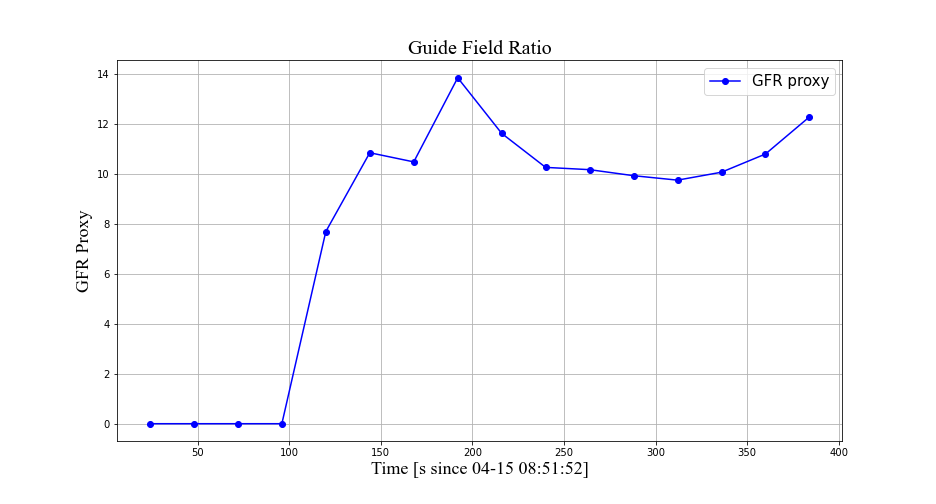
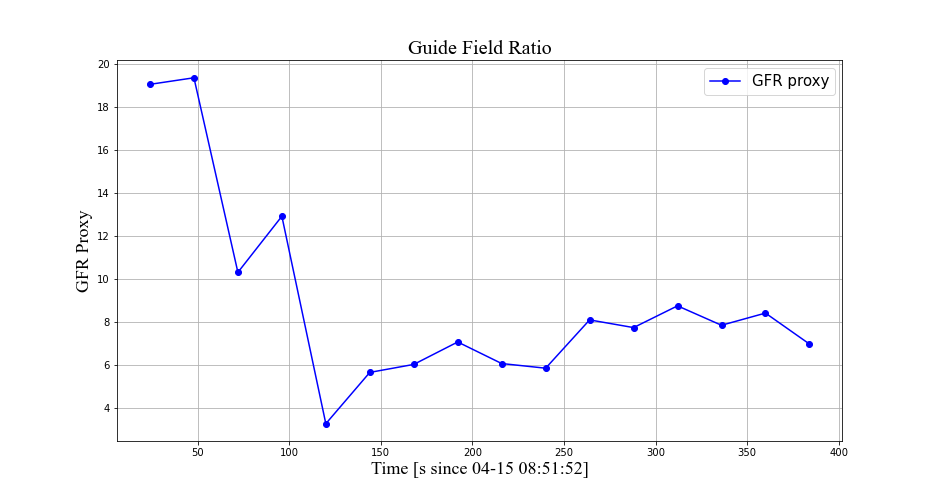
function modification, high2

diff --git a/high2_process.py b/high2_process.py
@@ -268,7 +268,7 @@ guide = fl_funcs.guidefieldlen_alt(pil_right_near_pos_shear,
                                                  pil_left_near_pos_shear,
                                                  pil_right_near_neg_shear,
                                                  pil_left_near_neg_shear,
-                                                 sortedpil, fl_funcs.curve_length)
+                                                 sortedpil, fl_funcs.curve_length,'posleft')
 
 # Guide field ratio to the right and left edges of ribbons
 gfr = fl_funcs.gfrcalc_alt(guide, distneg_med, distpos_med)
@@ -323,3 +323,6 @@ fl_funcs.plt_fourpanel(times, gfr, gfr, flnum, dt1600, time304,
                   flag = 1)
 
 
+file='high2shear'
+
+np.savez(file,shear_ang_left,shear_ang_right,right_gfr,left_gfr)

diff --git a/fl_funcs.py b/fl_funcs.py
@@ -3680,7 +3680,7 @@ def guidefieldlen(pil_right_near_pos_shear, pil_left_near_pos_shear,
 
 def guidefieldlen_alt(pil_right_near_pos_shear, pil_left_near_pos_shear,
                   pil_right_near_neg_shear, pil_left_near_neg_shear,
-                  sortedpil, flag='posright'):
+                  sortedpil, curve_length, flag='posright'):
     """
     Find length along the axis of the guide field, the PIL-parallel component
     of magnetic field - alternative, tracking opposite ends of ribbons.
